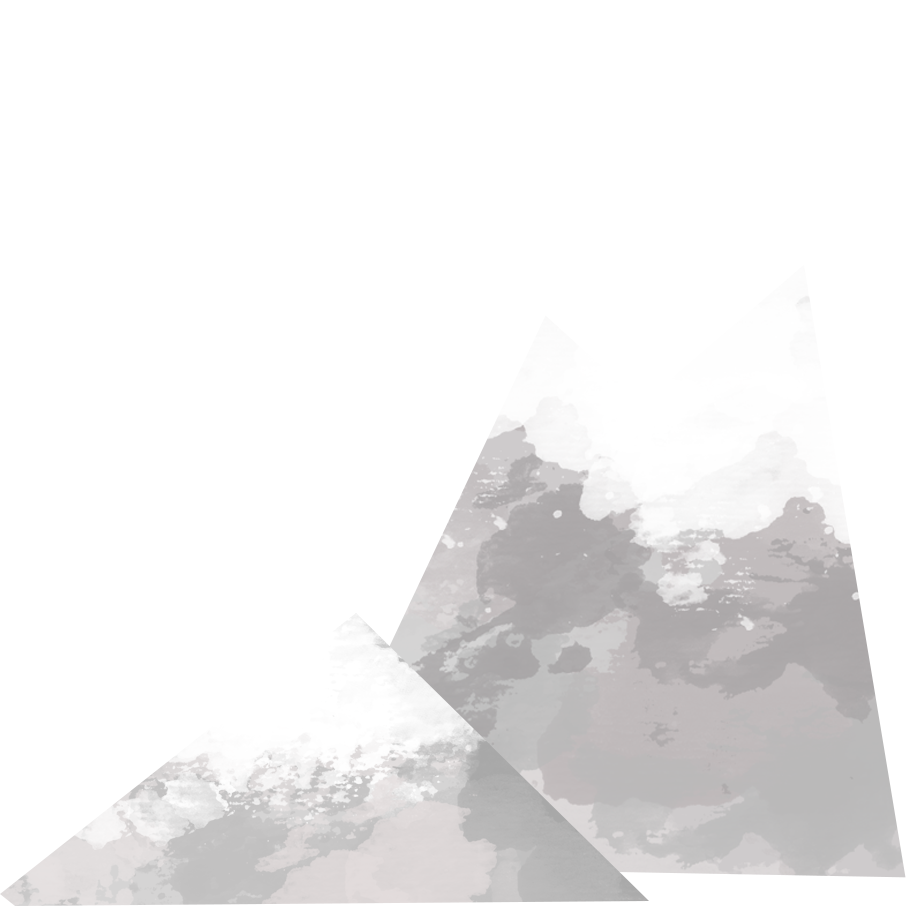
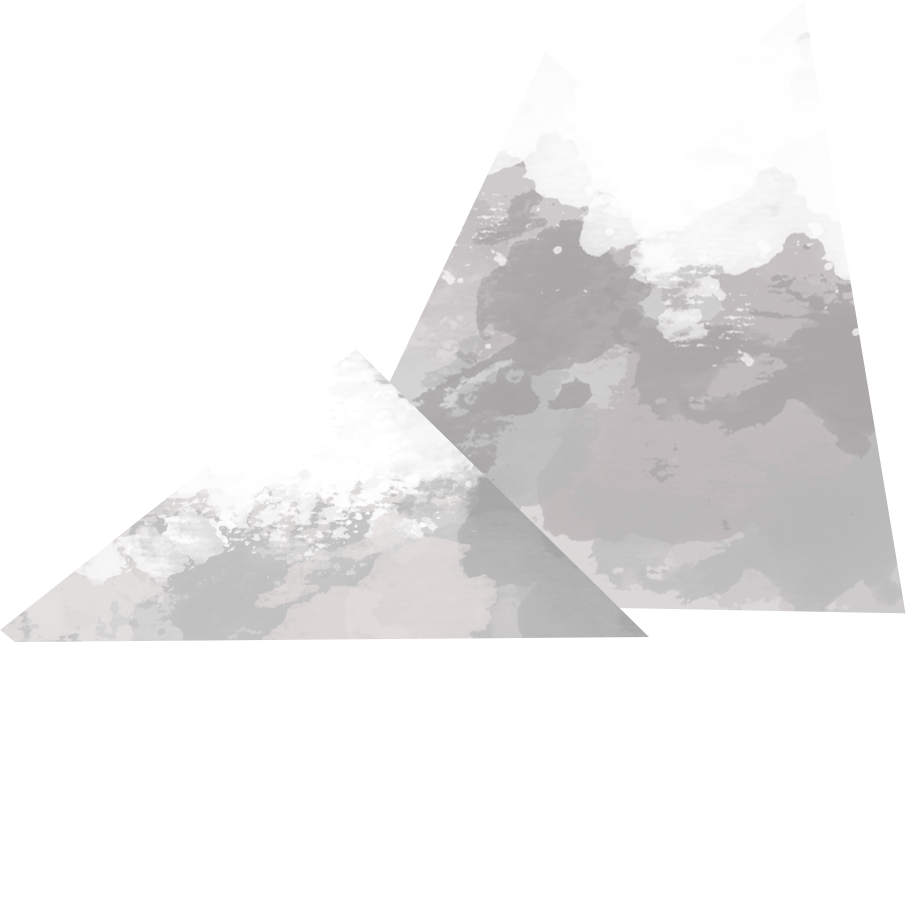
verbesserten karten "kleben bleiben"

diff --git a/assets/js/bw-position-icons.js b/assets/js/bw-position-icons.js
@@ -3,69 +3,82 @@ var bw = bw || {};
 
 
 bw.resizeMap = (function ($) {
-    var menuItem, content, navigation, places, map;
+    var menuItem, content, navigation, places, mapWrapper, map, mapImage;
 
     function iconPosiontioningAndResize() {
         menuItem = $('#menuitem');
         places = $('.place');
         content = $('#content');
-        map = $('#map');
+        mapWrapper = $('#map-wrap');
         navigation = $('#navigation');
-
-        map.waitForImages({
-            waitForAll: true,
-            finished: function () {
-                setTimeout(position, 10);
-            }});
-
-    }
-
-        function position() {
-            /* sets the init pos of the css*/
-            /* sehr inperformant aber keine Ahnung wies sonst gehen sollte */
-            places.each(function (key, value) {
-                value.initPosY = parseInt($(value).css('top'));
-                value.initPosX = parseInt($(value).css('left'));
-            });
+        map = $('#map');
+        mapImage = $('#map-image');
 
 
-            setTimeout(function () {
-                $(window).trigger("resize");
-            }, 200);
+        setTimeout(function () {
+            $(window).trigger("resize");
+        }, 200);
 
 
-            $(window).on("resize", function (e) {
-                var mapBackgroundSize, topValue, leftValue, ratioX, ratioY;
-
-                content.height(window.innerHeight - navigation.outerHeight());
-                menuItem.outerHeight(content.height());
-
-                /*--to get the icons sticky--*/
-                mapBackgroundSize = getBackgroundSize(map[0]);
-
-
-                ratioX = mapBackgroundSize.width / 3264;
-                ratioY = mapBackgroundSize.height / 1824;
-
-                places.each(function (key, value) {
-                    topValue = (((mapBackgroundSize.height - content.height()) / 2) * -1 + value.initPosY * ratioY);
-                    leftValue = (((mapBackgroundSize.width - content.width()) / 2) * -1 + value.initPosX * ratioX);
-
-                    $(value).css('top', topValue + 'px');
-                    $(value).css('left', leftValue + 'px');
-
-
-                    $(value).next().css({
-                        'top': topValue + $(value).height()/2,
-                        'left': leftValue + $(value).width()/2
-                    });
-                });
-            });
+        $(window).on("resize", function (e) {
+            var mapBackgroundSize, topValue, leftValue, ratioX, ratioY;
 
             content.height(window.innerHeight - navigation.outerHeight());
             menuItem.outerHeight(content.height());
-        }
 
+            if (content.width() / content.height() < 3264 / 1824) {
+                map.css({
+                    height: '100%',
+                    width: ''
+                });
+
+                mapImage.css({
+                    height: '100%',
+                    width: ''
+                });
+
+            } else {
+                map.css({
+                    height: '',
+                    width: '100%'
+                });
+
+                mapImage.css({
+                    height: '',
+                    width: '100%'
+                });
+            }
+
+
+            /*--to get the icons sticky--*/
+            /*
+            mapBackgroundSize = getBackgroundSize(map[0]);
+
+
+            ratioX = mapBackgroundSize.width / 3264;
+            ratioY = mapBackgroundSize.height / 1824;
+
+            places.each(function (key, value) {
+                topValue = (((mapBackgroundSize.height - content.height()) / 2) * -1 + value.initPosY * ratioY);
+                leftValue = (((mapBackgroundSize.width - content.width()) / 2) * -1 + value.initPosX * ratioX);
+
+                $(value).css('top', topValue + 'px');
+                $(value).css('left', leftValue + 'px');
+
+
+                $(value).next().css({
+                    'top': topValue + $(value).height() / 2,
+                    'left': leftValue + $(value).width() / 2
+                });
+            });*/
+        });
+
+        content.height(window.innerHeight - navigation.outerHeight());
+        menuItem.outerHeight(content.height());
+    }
+
+
+/*
     function getBackgroundSize(elem) {
         var computedStyle = getComputedStyle(elem),
             image = new Image(),
@@ -81,9 +94,9 @@ bw.resizeMap = (function ($) {
         cssSize = cssSize.split(' ');
         computedDim[0] = cssSize[0];
         computedDim[1] = cssSize.length > 1 ? cssSize[1] : 'auto';
-        if(cssSize[0] === 'cover') {
-            if(elemDim[0] > elemDim[1]) {
-                if(elemDim[0] / elemDim[1] >= ratio) {
+        if (cssSize[0] === 'cover') {
+            if (elemDim[0] > elemDim[1]) {
+                if (elemDim[0] / elemDim[1] >= ratio) {
                     computedDim[0] = elemDim[0];
                     computedDim[1] = 'auto';
                 } else {
@@ -94,12 +107,12 @@ bw.resizeMap = (function ($) {
                 computedDim[0] = 'auto';
                 computedDim[1] = elemDim[1];
             }
-        } else if(cssSize[0] === 'contain') {
-            if(elemDim[0] < elemDim[1]) {
+        } else if (cssSize[0] === 'contain') {
+            if (elemDim[0] < elemDim[1]) {
                 computedDim[0] = elemDim[0];
                 computedDim[1] = 'auto';
             } else {
-                if(elemDim[0] / elemDim[1] >= ratio) {
+                if (elemDim[0] / elemDim[1] >= ratio) {
                     computedDim[0] = 'auto';
                     computedDim[1] = elemDim[1];
                 } else {
@@ -108,7 +121,7 @@ bw.resizeMap = (function ($) {
                 }
             }
         } else {
-            for(var i = cssSize.length; i--;) {
+            for (var i = cssSize.length; i--;) {
                 if (cssSize[i].indexOf('px') > -1) {
                     computedDim[i] = cssSize[i].replace('px', '');
                 } else if (cssSize[i].indexOf('%') > -1) {
@@ -116,7 +129,7 @@ bw.resizeMap = (function ($) {
                 }
             }
         }
-        if(computedDim[0] === 'auto' && computedDim[1] === 'auto') {
+        if (computedDim[0] === 'auto' && computedDim[1] === 'auto') {
             computedDim[0] = image.width;
             computedDim[1] = image.height;
         } else {
@@ -128,7 +141,7 @@ bw.resizeMap = (function ($) {
             width: computedDim[0],
             height: computedDim[1]
         };
-    }
+    }*/
 
 
     return {

diff --git a/index.html b/index.html
@@ -55,32 +55,34 @@
     </header>
 
     <main id="content">
-        <div class="map" id="map">
-            <button type="button" id="close-canvas" class="close"></button>
-            <div class="place grossglockner" data-place="grossglockner">
-                <img class="icon" src="assets/images/map/Großglockner_Icon.png" alt="Mountain"/>
-            </div>
-            <div class="box one" id="Mountain">
-                <div class="grayoverlay"></div>
-                <canvas id="grossglockner" width="1920" height="1080" style="background-color:#ffffff"></canvas>
-            </div>
-
-            <div class="place gruenersee" data-place="gruenersee">
-                <img class="icon" src="assets/images/map/icon_gruenersee.png" alt="Lake" name/>
-            </div>
-            <div class="box two" id="Lake">
-                <div class="grayoverlay"></div>
-                <canvas id="gruenersee" width="1920" height="1080" style="background-color:#ffffff"></canvas>
-            </div>
-
-            <div id="info">
-                <button class="info" type="button"><img src="assets/images/info.png" alt="Info"/></button>
-                <div class="infobox hiddeninfobox">
-                    <h2 id="description-title"></h2>
-                    <p id="description-text">
-
-                    </p>
+        <div class="map-wrapper" id="map-wrap">
+            <div class="map" id="map">
+                <img id="map-image" class="map-image" src="assets/images/map/map.jpg" alt="Map"/>
+                <div class="place grossglockner" data-place="grossglockner">
+                    <img class="icon" src="assets/images/map/Großglockner_Icon.png" alt="Mountain"/>
                 </div>
+                <div class="box one" id="Mountain">
+                    <div class="grayoverlay"></div>
+                    <canvas id="grossglockner" width="1920" height="1080" style="background-color:#ffffff"></canvas>
+                </div>
+
+                <div class="place gruenersee" data-place="gruenersee">
+                    <img class="icon" src="assets/images/map/icon_gruenersee.png" alt="Lake" name/>
+                </div>
+                <div class="box two" id="Lake">
+                    <div class="grayoverlay"></div>
+                    <canvas id="gruenersee" width="1920" height="1080" style="background-color:#ffffff"></canvas>
+                </div>
+            </div>
+        </div>
+
+        <button type="button" id="close-canvas" class="close"></button>
+        <div id="info">
+            <button class="info" type="button"><img src="assets/images/info.png" alt="Info"/></button>
+            <div class="infobox hiddeninfobox">
+                <h2 id="description-title"></h2>
+                <p id="description-text">
+                </p>
             </div>
         </div>
     </main>

diff --git a/assets/css/mh-styles.css b/assets/css/mh-styles.css
@@ -134,7 +134,7 @@ div#logo img{
 main#content {
   height: 100%;
   width: 100%;
-  overflow: hidden;
+  position: relative;
 
 }
 
@@ -149,25 +149,40 @@ main#content {
 }
 
 
+.map-image {
+
+}
+
 .map {
+  display: inline-block;
   position: relative;
-  background: url("../images/map/map.png") no-repeat;
-  background-size: cover;
-  background-position: center;
-  width: 100%;
+  flex-shrink: 0;
+  min-width: 100%;
+  min-height: 100%;
+  object-fit: cover;
+}
+
+.map-wrapper {
+  display: flex;
+  justify-content: center;
+  align-items: center;
+  overflow: hidden;
   height: 100%;
+  width: 100%;
 }
 
 
 /*places */
-.grossglockner {
-  top: 1200px;         /*Dank javascript auf hintergundbild bezogen*/
-  left: 1500px;
+.grossglockner,
+.grossglockner + .box {
+  top: 66%;         /*Dank javascript auf hintergundbild bezogen*/
+  left: 44%;
 }
 
-.gruenersee {
-  top: 1000px;
-  left: 2200px;
+.gruenersee,
+.gruenersee + .box {
+  top: 55%;
+  left: 67%;
 }
 
 
@@ -186,6 +201,7 @@ button.info img {
 }
 
 #info {
+  position: absolute;
   display: flex;
   justify-content: center;
   align-items: center;
@@ -235,10 +251,11 @@ button.info img {
 .box.fullScreen{
   /* Your override styles:  */
   border-radius: 0;
-  left: 0 !important;
-  top: 0 !important;
-  height: 100%;
+  left: 50% !important;
+  top: 50% !important;
+  height: 50%;
   width: 100%;
+  transform: translate(-50%, -50%);
   z-index: 10;
 }
 
@@ -252,6 +269,12 @@ button.info img {
   height: 100px;
   z-index: 1;
   opacity: 1;
+}
+
+#close-canvas {
+  position: absolute;
+  top: 20px;
+  right: 20px;
 }
 
 .closecanvas {
